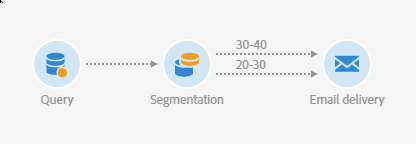
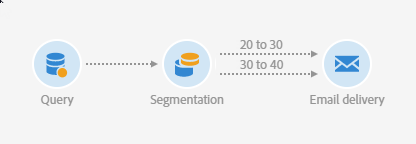
report segments

Changed region(s): [[0.5625, 0.4167, 0.6875, 0.5], [0.5625, 0.2778, 0.6875, 0.3611]]

diff --git a/help/reporting/using/creating-a-report-workflow-segment.md b/help/reporting/using/creating-a-report-workflow-segment.md
@@ -44,27 +44,38 @@ From the advanced menu, select **[!UICONTROL Administration]** > **[!UICONTROL D
 
 1. Click **[!UICONTROL Prepare publication]** then when the preparation is done, click the **[!UICONTROL Publish]** button. For more information on custom resource, refer to this [page](../../developing/using/updating-the-database-structure).
 
-You can now access your reports to track your segment codes.
+You can now start creating your workflow with segment codes.
 
 ## Step 2: Create a workflow with segments {#step-2--create-a-workflow-segments}
 
-You first need to create a workflow with different targeted population. Here, we want to send different deliveries depending on the age of our audience: one delivery for 20 to 30 years old profiles and another for profiles between 30 to 40 years old.
+You first need to create a workflow with different targeted population. Here, we want to send an email that will be personalized depending on the age of our audience: one delivery for 20 to 30 years old profiles and another for profiles between 30 to 40 years old.
 
 1. Create your workflow. For more details on how to create your workflow, refer to this [page](../../automating/using/building-a-workflow).
 
 1. Add a **[!UICONTROL Query]** activity by dragging it from the palette and dropping it in the workspace.
 
-1. Target profiles from 20 to 40 years old to later segment them into more targeted population.
+1. Target profiles from 20 to 40 years old to later segment them into more targeted populations.
 
    ![](assets/report_segment_1.png)
 
 1. Add a **[!UICONTROL Segmentation]** activity to split your query results into two targeted populations. For more on segmentation, refer to this [page](../../automating/using/targeting-data).
 
-1. Add a **[!UICONTROL Segment code]** for each population to be passed on through dynamic reporting.
+1. Double click the **[!UICONTROL Segmentation]** activity to configure it. Edit the first segment by clicking **[!UICONTROL Edit properties]**.
+
+    ![](assets/report_segment_7.png)
+
+1. Query profiles between the age of 20 to 30 and click **[!UICONTROL Confirm]** when done.
+
+    ![](assets/report_segment_8.png)
+
+1. Click **[!UICONTROL Add an element]** to create your second segment and configure it as described in the steps above to target profiles between the age of 30 to 40.
+
+1. Edit the **[!UICONTROL Segment code]** for each population to be passed on through dynamic reporting.
    >[!NOTE]
    >This step is mandatory or else you will not be able to understand which segments to report on.
 
-   ![](assets/report_segment_2.png)
+   ![](assets/report_segment_9.png)
+
 1. Drag and drop an **[!UICONTROL Email delivery]** activity after your segments.
 
    ![](assets/report_segment_3.png)
@@ -75,6 +86,8 @@ You first need to create a workflow with different targeted population. Here, we
 
 1. Click **[!UICONTROL Start]** when your workflow is ready.
 
+You can now access your reports to track your segment codes.
+
 ## Step 3: Create a dynamic report to filter segments{#step-3--create-a-dynamic-report-filter-segments}
 
 After sending deliveries with your workflow, you can breakdown reports using your segment codes from your workflow.
@@ -83,10 +96,12 @@ After sending deliveries with your workflow, you can breakdown reports using you
 
    ![](assets/custom_profile_18.png)
 1. Drag and drop the **[!UICONTROL Delivery]** dimension to your freeform table.
+
    ![](assets/report_segment_5.png)
 
 1. Drag and drop different metrics to your table such as the **[!UICONTROL Open]** and **[!UICONTROL Click]** metrics to start filtering your data.
 1. Then, in the **[!UICONTROL Dimensions]** category, drag and drop your **[!UICONTROL Segment code]** dimension on your workflow's delivery to measure the success of your email delivery depending on the targeted populations.
+
    ![](assets/report_segment_6.png)
 
 1. Drag and drop a visualization in your workspace if needed.
